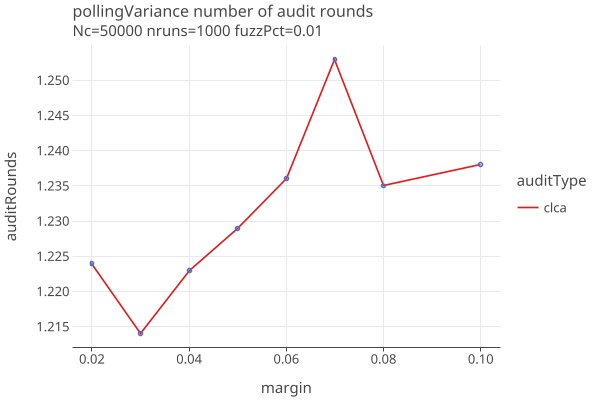
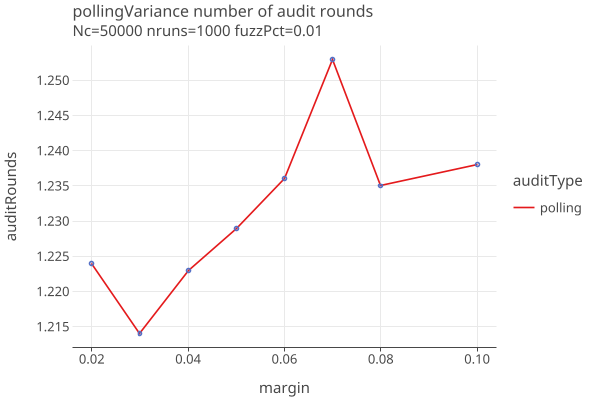
Readme edits

diff --git a/docs/plots/extra/pollingVariance/pollingVarianceLogLinear.html b/docs/plots/extra/pollingVariance/pollingVarianceLogLinear.html
@@ -5,7 +5,7 @@
        &lt;script type=&quot;text/javascript&quot; data-lets-plot-script=&quot;library&quot; src=&quot;https://cdn.jsdelivr.net/gh/JetBrains/lets-plot@v4.5.1/js-package/distr/lets-plot.min.js&quot;>&lt;/script>
    &lt;/head>
    &lt;body>
-          &lt;div id=&quot;SAeMni&quot;>&lt;/div>
+          &lt;div id=&quot;o801SV&quot;>&lt;/div>
    &lt;script type=&quot;text/javascript&quot; data-lets-plot-script=&quot;plot&quot;>
    
    (function() {
@@ -48,10 +48,10 @@
 },
 &quot;stat&quot;:&quot;identity&quot;,
 &quot;data&quot;:{
-&quot;&amp;merged_groups&quot;:[&quot;minusStdev&quot;,&quot;minusStdev&quot;,&quot;minusStdev&quot;,&quot;minusStdev&quot;,&quot;minusStdev&quot;,&quot;minusStdev&quot;,&quot;minusStdev&quot;,&quot;minusStdev&quot;,&quot;needed&quot;,&quot;needed&quot;,&quot;needed&quot;,&quot;needed&quot;,&quot;needed&quot;,&quot;needed&quot;,&quot;needed&quot;,&quot;needed&quot;,&quot;plusStdev&quot;,&quot;plusStdev&quot;,&quot;plusStdev&quot;,&quot;plusStdev&quot;,&quot;plusStdev&quot;,&quot;plusStdev&quot;,&quot;plusStdev&quot;,&quot;plusStdev&quot;],
 &quot;margin&quot;:[0.02,0.03,0.04,0.05,0.06,0.07,0.08,0.1,0.02,0.03,0.04,0.05,0.06,0.07,0.08,0.1,0.02,0.03,0.04,0.05,0.06,0.07,0.08,0.1],
-&quot;samplesNeeded&quot;:[6368.505663611543,2556.9225643460823,1261.785551441922,803.0561047828955,580.6726947705824,374.83007948877275,243.3457677579852,135.91553683968868,13940.008000000016,7300.048999999997,4510.120999999999,2923.8219999999997,2067.637999999995,1542.6049999999989,1144.6039999999998,705.4270000000008,21511.51033638849,12043.175435653913,7758.456448558076,5044.587895217104,3554.6033052294074,2710.379920511225,2045.8622322420144,1274.938463160313],
-&quot;legend&quot;:[&quot;minusStdev&quot;,&quot;minusStdev&quot;,&quot;minusStdev&quot;,&quot;minusStdev&quot;,&quot;minusStdev&quot;,&quot;minusStdev&quot;,&quot;minusStdev&quot;,&quot;minusStdev&quot;,&quot;needed&quot;,&quot;needed&quot;,&quot;needed&quot;,&quot;needed&quot;,&quot;needed&quot;,&quot;needed&quot;,&quot;needed&quot;,&quot;needed&quot;,&quot;plusStdev&quot;,&quot;plusStdev&quot;,&quot;plusStdev&quot;,&quot;plusStdev&quot;,&quot;plusStdev&quot;,&quot;plusStdev&quot;,&quot;plusStdev&quot;,&quot;plusStdev&quot;]
+&quot;&amp;merged_groups&quot;:[&quot;minusStdev&quot;,&quot;minusStdev&quot;,&quot;minusStdev&quot;,&quot;minusStdev&quot;,&quot;minusStdev&quot;,&quot;minusStdev&quot;,&quot;minusStdev&quot;,&quot;minusStdev&quot;,&quot;needed&quot;,&quot;needed&quot;,&quot;needed&quot;,&quot;needed&quot;,&quot;needed&quot;,&quot;needed&quot;,&quot;needed&quot;,&quot;needed&quot;,&quot;plusStdev&quot;,&quot;plusStdev&quot;,&quot;plusStdev&quot;,&quot;plusStdev&quot;,&quot;plusStdev&quot;,&quot;plusStdev&quot;,&quot;plusStdev&quot;,&quot;plusStdev&quot;],
+&quot;legend&quot;:[&quot;minusStdev&quot;,&quot;minusStdev&quot;,&quot;minusStdev&quot;,&quot;minusStdev&quot;,&quot;minusStdev&quot;,&quot;minusStdev&quot;,&quot;minusStdev&quot;,&quot;minusStdev&quot;,&quot;needed&quot;,&quot;needed&quot;,&quot;needed&quot;,&quot;needed&quot;,&quot;needed&quot;,&quot;needed&quot;,&quot;needed&quot;,&quot;needed&quot;,&quot;plusStdev&quot;,&quot;plusStdev&quot;,&quot;plusStdev&quot;,&quot;plusStdev&quot;,&quot;plusStdev&quot;,&quot;plusStdev&quot;,&quot;plusStdev&quot;,&quot;plusStdev&quot;],
+&quot;samplesNeeded&quot;:[6368.505663611543,2556.9225643460823,1261.785551441922,803.0561047828955,580.6726947705824,374.83007948877275,243.3457677579852,135.91553683968868,13940.008000000016,7300.048999999997,4510.120999999999,2923.8219999999997,2067.637999999995,1542.6049999999989,1144.6039999999998,705.4270000000008,21511.51033638849,12043.175435653913,7758.456448558076,5044.587895217104,3554.6033052294074,2710.379920511225,2045.8622322420144,1274.938463160313]
 },
 &quot;sampling&quot;:&quot;none&quot;,
 &quot;inherit_aes&quot;:false,
@@ -114,7 +114,7 @@
 }],
 &quot;spec_id&quot;:&quot;6&quot;
 };
-       var containerDiv = document.getElementById(&quot;SAeMni&quot;);
+       var containerDiv = document.getElementById(&quot;o801SV&quot;);
        
                var toolbar = null;
                var plotContainer = containerDiv;               

diff --git a/docs/plots/extra/pollingVariance/pollingVarianceNmvrsLinear.html b/docs/plots/extra/pollingVariance/pollingVarianceNmvrsLinear.html
@@ -5,7 +5,7 @@
        &lt;script type=&quot;text/javascript&quot; data-lets-plot-script=&quot;library&quot; src=&quot;https://cdn.jsdelivr.net/gh/JetBrains/lets-plot@v4.5.1/js-package/distr/lets-plot.min.js&quot;>&lt;/script>
    &lt;/head>
    &lt;body>
-          &lt;div id=&quot;yOlvy0&quot;>&lt;/div>
+          &lt;div id=&quot;FoLdR7&quot;>&lt;/div>
    &lt;script type=&quot;text/javascript&quot; data-lets-plot-script=&quot;plot&quot;>
    
    (function() {
@@ -47,8 +47,8 @@
 &quot;stat&quot;:&quot;identity&quot;,
 &quot;data&quot;:{
 &quot;number&quot;:[24308.496,13414.546,8131.032,5337.155,3738.574,2779.984,2101.442,1305.72,13940.008000000016,7300.048999999997,4510.120999999999,2923.8219999999997,2067.637999999995,1542.6049999999989,1144.6039999999998,705.4270000000008],
-&quot;&amp;merged_groups&quot;:[&quot;nmvrs&quot;,&quot;nmvrs&quot;,&quot;nmvrs&quot;,&quot;nmvrs&quot;,&quot;nmvrs&quot;,&quot;nmvrs&quot;,&quot;nmvrs&quot;,&quot;nmvrs&quot;,&quot;samplesNeeded&quot;,&quot;samplesNeeded&quot;,&quot;samplesNeeded&quot;,&quot;samplesNeeded&quot;,&quot;samplesNeeded&quot;,&quot;samplesNeeded&quot;,&quot;samplesNeeded&quot;,&quot;samplesNeeded&quot;],
 &quot;margin&quot;:[0.02,0.03,0.04,0.05,0.06,0.07,0.08,0.1,0.02,0.03,0.04,0.05,0.06,0.07,0.08,0.1],
+&quot;&amp;merged_groups&quot;:[&quot;nmvrs&quot;,&quot;nmvrs&quot;,&quot;nmvrs&quot;,&quot;nmvrs&quot;,&quot;nmvrs&quot;,&quot;nmvrs&quot;,&quot;nmvrs&quot;,&quot;nmvrs&quot;,&quot;samplesNeeded&quot;,&quot;samplesNeeded&quot;,&quot;samplesNeeded&quot;,&quot;samplesNeeded&quot;,&quot;samplesNeeded&quot;,&quot;samplesNeeded&quot;,&quot;samplesNeeded&quot;,&quot;samplesNeeded&quot;],
 &quot;legend&quot;:[&quot;nmvrs&quot;,&quot;nmvrs&quot;,&quot;nmvrs&quot;,&quot;nmvrs&quot;,&quot;nmvrs&quot;,&quot;nmvrs&quot;,&quot;nmvrs&quot;,&quot;nmvrs&quot;,&quot;samplesNeeded&quot;,&quot;samplesNeeded&quot;,&quot;samplesNeeded&quot;,&quot;samplesNeeded&quot;,&quot;samplesNeeded&quot;,&quot;samplesNeeded&quot;,&quot;samplesNeeded&quot;,&quot;samplesNeeded&quot;]
 },
 &quot;sampling&quot;:&quot;none&quot;,
@@ -79,8 +79,8 @@
 &quot;stat&quot;:&quot;identity&quot;,
 &quot;data&quot;:{
 &quot;number&quot;:[24308.496,13414.546,8131.032,5337.155,3738.574,2779.984,2101.442,1305.72,13940.008000000016,7300.048999999997,4510.120999999999,2923.8219999999997,2067.637999999995,1542.6049999999989,1144.6039999999998,705.4270000000008],
-&quot;margin&quot;:[0.02,0.03,0.04,0.05,0.06,0.07,0.08,0.1,0.02,0.03,0.04,0.05,0.06,0.07,0.08,0.1],
 &quot;&amp;merged_groups&quot;:[&quot;nmvrs&quot;,&quot;nmvrs&quot;,&quot;nmvrs&quot;,&quot;nmvrs&quot;,&quot;nmvrs&quot;,&quot;nmvrs&quot;,&quot;nmvrs&quot;,&quot;nmvrs&quot;,&quot;samplesNeeded&quot;,&quot;samplesNeeded&quot;,&quot;samplesNeeded&quot;,&quot;samplesNeeded&quot;,&quot;samplesNeeded&quot;,&quot;samplesNeeded&quot;,&quot;samplesNeeded&quot;,&quot;samplesNeeded&quot;],
+&quot;margin&quot;:[0.02,0.03,0.04,0.05,0.06,0.07,0.08,0.1,0.02,0.03,0.04,0.05,0.06,0.07,0.08,0.1],
 &quot;legend&quot;:[&quot;nmvrs&quot;,&quot;nmvrs&quot;,&quot;nmvrs&quot;,&quot;nmvrs&quot;,&quot;nmvrs&quot;,&quot;nmvrs&quot;,&quot;nmvrs&quot;,&quot;nmvrs&quot;,&quot;samplesNeeded&quot;,&quot;samplesNeeded&quot;,&quot;samplesNeeded&quot;,&quot;samplesNeeded&quot;,&quot;samplesNeeded&quot;,&quot;samplesNeeded&quot;,&quot;samplesNeeded&quot;,&quot;samplesNeeded&quot;]
 },
 &quot;size&quot;:1.0,
@@ -112,7 +112,7 @@
 }],
 &quot;spec_id&quot;:&quot;12&quot;
 };
-       var containerDiv = document.getElementById(&quot;yOlvy0&quot;);
+       var containerDiv = document.getElementById(&quot;FoLdR7&quot;);
        
                var toolbar = null;
                var plotContainer = containerDiv;               

diff --git a/docs/plots/extra/pollingVariance/pollingVarianceLinear.html b/docs/plots/extra/pollingVariance/pollingVarianceLinear.html
@@ -5,7 +5,7 @@
        &lt;script type=&quot;text/javascript&quot; data-lets-plot-script=&quot;library&quot; src=&quot;https://cdn.jsdelivr.net/gh/JetBrains/lets-plot@v4.5.1/js-package/distr/lets-plot.min.js&quot;>&lt;/script>
    &lt;/head>
    &lt;body>
-          &lt;div id=&quot;MdbiNU&quot;>&lt;/div>
+          &lt;div id=&quot;jJNl74&quot;>&lt;/div>
    &lt;script type=&quot;text/javascript&quot; data-lets-plot-script=&quot;plot&quot;>
    
    (function() {
@@ -48,8 +48,8 @@
 &quot;data&quot;:{
 &quot;margin&quot;:[0.02,0.03,0.04,0.05,0.06,0.07,0.08,0.1,0.02,0.03,0.04,0.05,0.06,0.07,0.08,0.1,0.02,0.03,0.04,0.05,0.06,0.07,0.08,0.1],
 &quot;&amp;merged_groups&quot;:[&quot;minusStdev&quot;,&quot;minusStdev&quot;,&quot;minusStdev&quot;,&quot;minusStdev&quot;,&quot;minusStdev&quot;,&quot;minusStdev&quot;,&quot;minusStdev&quot;,&quot;minusStdev&quot;,&quot;needed&quot;,&quot;needed&quot;,&quot;needed&quot;,&quot;needed&quot;,&quot;needed&quot;,&quot;needed&quot;,&quot;needed&quot;,&quot;needed&quot;,&quot;plusStdev&quot;,&quot;plusStdev&quot;,&quot;plusStdev&quot;,&quot;plusStdev&quot;,&quot;plusStdev&quot;,&quot;plusStdev&quot;,&quot;plusStdev&quot;,&quot;plusStdev&quot;],
-&quot;samplesNeeded&quot;:[6368.505663611543,2556.9225643460823,1261.785551441922,803.0561047828955,580.6726947705824,374.83007948877275,243.3457677579852,135.91553683968868,13940.008000000016,7300.048999999997,4510.120999999999,2923.8219999999997,2067.637999999995,1542.6049999999989,1144.6039999999998,705.4270000000008,21511.51033638849,12043.175435653913,7758.456448558076,5044.587895217104,3554.6033052294074,2710.379920511225,2045.8622322420144,1274.938463160313],
-&quot;legend&quot;:[&quot;minusStdev&quot;,&quot;minusStdev&quot;,&quot;minusStdev&quot;,&quot;minusStdev&quot;,&quot;minusStdev&quot;,&quot;minusStdev&quot;,&quot;minusStdev&quot;,&quot;minusStdev&quot;,&quot;needed&quot;,&quot;needed&quot;,&quot;needed&quot;,&quot;needed&quot;,&quot;needed&quot;,&quot;needed&quot;,&quot;needed&quot;,&quot;needed&quot;,&quot;plusStdev&quot;,&quot;plusStdev&quot;,&quot;plusStdev&quot;,&quot;plusStdev&quot;,&quot;plusStdev&quot;,&quot;plusStdev&quot;,&quot;plusStdev&quot;,&quot;plusStdev&quot;]
+&quot;legend&quot;:[&quot;minusStdev&quot;,&quot;minusStdev&quot;,&quot;minusStdev&quot;,&quot;minusStdev&quot;,&quot;minusStdev&quot;,&quot;minusStdev&quot;,&quot;minusStdev&quot;,&quot;minusStdev&quot;,&quot;needed&quot;,&quot;needed&quot;,&quot;needed&quot;,&quot;needed&quot;,&quot;needed&quot;,&quot;needed&quot;,&quot;needed&quot;,&quot;needed&quot;,&quot;plusStdev&quot;,&quot;plusStdev&quot;,&quot;plusStdev&quot;,&quot;plusStdev&quot;,&quot;plusStdev&quot;,&quot;plusStdev&quot;,&quot;plusStdev&quot;,&quot;plusStdev&quot;],
+&quot;samplesNeeded&quot;:[6368.505663611543,2556.9225643460823,1261.785551441922,803.0561047828955,580.6726947705824,374.83007948877275,243.3457677579852,135.91553683968868,13940.008000000016,7300.048999999997,4510.120999999999,2923.8219999999997,2067.637999999995,1542.6049999999989,1144.6039999999998,705.4270000000008,21511.51033638849,12043.175435653913,7758.456448558076,5044.587895217104,3554.6033052294074,2710.379920511225,2045.8622322420144,1274.938463160313]
 },
 &quot;sampling&quot;:&quot;none&quot;,
 &quot;inherit_aes&quot;:false,
@@ -112,7 +112,7 @@
 }],
 &quot;spec_id&quot;:&quot;3&quot;
 };
-       var containerDiv = document.getElementById(&quot;MdbiNU&quot;);
+       var containerDiv = document.getElementById(&quot;jJNl74&quot;);
        
                var toolbar = null;
                var plotContainer = containerDiv;               

diff --git a/docs/plots/extra/pollingVariance/pollingVarianceNrounds.html b/docs/plots/extra/pollingVariance/pollingVarianceNrounds.html
@@ -5,7 +5,7 @@
        &lt;script type=&quot;text/javascript&quot; data-lets-plot-script=&quot;library&quot; src=&quot;https://cdn.jsdelivr.net/gh/JetBrains/lets-plot@v4.5.1/js-package/distr/lets-plot.min.js&quot;>&lt;/script>
    &lt;/head>
    &lt;body>
-          &lt;div id=&quot;PHRwff&quot;>&lt;/div>
+          &lt;div id=&quot;jKtAfU&quot;>&lt;/div>
    &lt;script type=&quot;text/javascript&quot; data-lets-plot-script=&quot;plot&quot;>
    
    (function() {
@@ -46,10 +46,10 @@
 },
 &quot;stat&quot;:&quot;identity&quot;,
 &quot;data&quot;:{
-&quot;&amp;merged_groups&quot;:[&quot;clca&quot;,&quot;clca&quot;,&quot;clca&quot;,&quot;clca&quot;,&quot;clca&quot;,&quot;clca&quot;,&quot;clca&quot;,&quot;clca&quot;],
 &quot;auditRounds&quot;:[1.224,1.214,1.223,1.229,1.236,1.253,1.235,1.238],
 &quot;margin&quot;:[0.02,0.03,0.04,0.05,0.06,0.07,0.08,0.1],
-&quot;auditType&quot;:[&quot;clca&quot;,&quot;clca&quot;,&quot;clca&quot;,&quot;clca&quot;,&quot;clca&quot;,&quot;clca&quot;,&quot;clca&quot;,&quot;clca&quot;]
+&quot;&amp;merged_groups&quot;:[&quot;polling&quot;,&quot;polling&quot;,&quot;polling&quot;,&quot;polling&quot;,&quot;polling&quot;,&quot;polling&quot;,&quot;polling&quot;,&quot;polling&quot;],
+&quot;auditType&quot;:[&quot;polling&quot;,&quot;polling&quot;,&quot;polling&quot;,&quot;polling&quot;,&quot;polling&quot;,&quot;polling&quot;,&quot;polling&quot;,&quot;polling&quot;]
 },
 &quot;sampling&quot;:&quot;none&quot;,
 &quot;inherit_aes&quot;:false,
@@ -78,10 +78,10 @@
 },
 &quot;stat&quot;:&quot;identity&quot;,
 &quot;data&quot;:{
-&quot;auditRounds&quot;:[1.224,1.214,1.223,1.229,1.236,1.253,1.235,1.238],
+&quot;&amp;merged_groups&quot;:[&quot;polling&quot;,&quot;polling&quot;,&quot;polling&quot;,&quot;polling&quot;,&quot;polling&quot;,&quot;polling&quot;,&quot;polling&quot;,&quot;polling&quot;],
 &quot;margin&quot;:[0.02,0.03,0.04,0.05,0.06,0.07,0.08,0.1],
-&quot;&amp;merged_groups&quot;:[&quot;clca&quot;,&quot;clca&quot;,&quot;clca&quot;,&quot;clca&quot;,&quot;clca&quot;,&quot;clca&quot;,&quot;clca&quot;,&quot;clca&quot;],
-&quot;auditType&quot;:[&quot;clca&quot;,&quot;clca&quot;,&quot;clca&quot;,&quot;clca&quot;,&quot;clca&quot;,&quot;clca&quot;,&quot;clca&quot;,&quot;clca&quot;]
+&quot;auditRounds&quot;:[1.224,1.214,1.223,1.229,1.236,1.253,1.235,1.238],
+&quot;auditType&quot;:[&quot;polling&quot;,&quot;polling&quot;,&quot;polling&quot;,&quot;polling&quot;,&quot;polling&quot;,&quot;polling&quot;,&quot;polling&quot;,&quot;polling&quot;]
 },
 &quot;size&quot;:1.0,
 &quot;shape&quot;:1.0,
@@ -112,7 +112,7 @@
 }],
 &quot;spec_id&quot;:&quot;9&quot;
 };
-       var containerDiv = document.getElementById(&quot;PHRwff&quot;);
+       var containerDiv = document.getElementById(&quot;jKtAfU&quot;);
        
                var toolbar = null;
                var plotContainer = containerDiv;               

diff --git a/docs/plots/extra/pollingVariance/pollingVarianceNmvrsLogLinear.html b/docs/plots/extra/pollingVariance/pollingVarianceNmvrsLogLinear.html
@@ -5,7 +5,7 @@
        &lt;script type=&quot;text/javascript&quot; data-lets-plot-script=&quot;library&quot; src=&quot;https://cdn.jsdelivr.net/gh/JetBrains/lets-plot@v4.5.1/js-package/distr/lets-plot.min.js&quot;>&lt;/script>
    &lt;/head>
    &lt;body>
-          &lt;div id=&quot;Vc4QKx&quot;>&lt;/div>
+          &lt;div id=&quot;2Au5v5&quot;>&lt;/div>
    &lt;script type=&quot;text/javascript&quot; data-lets-plot-script=&quot;plot&quot;>
    
    (function() {
@@ -114,7 +114,7 @@
 }],
 &quot;spec_id&quot;:&quot;15&quot;
 };
-       var containerDiv = document.getElementById(&quot;Vc4QKx&quot;);
+       var containerDiv = document.getElementById(&quot;2Au5v5&quot;);
        
                var toolbar = null;
                var plotContainer = containerDiv;               

diff --git a/plots/src/test/kotlin/org/cryptobiotic/rlauxe/workflow/CompareAuditVariance.kt b/plots/src/test/kotlin/org/cryptobiotic/rlauxe/workflow/CompareAuditVariance.kt
@@ -46,7 +46,7 @@ class CompareAuditVariance {
         val subtitle = "Nc=${N} nruns=${nruns} fuzzPct=$fuzzPct"
         showSampleVarianceVsMargin(dirName, name, subtitle, ScaleType.Linear)
         showSampleVarianceVsMargin(dirName, name, subtitle, ScaleType.LogLinear)
-        showNroundsVsMargin(dirName, name, subtitle, catName = "auditType", catfld = {"clca"} )
+        showNroundsVsMargin(dirName, name, subtitle, catName = "auditType", catfld = {"polling"} )
         showNmvrsVsMargin(dirName, name, subtitle, ScaleType.Linear )
         showNmvrsVsMargin(dirName, name, subtitle, ScaleType.LogLinear )
     }

diff --git a/README.md b/README.md
@@ -26,7 +26,6 @@ You can also read this document on [github.io](https://johnlcaron.github.io/rlau
 * [Measuring Samples Needed](#measuring-samples-needed)
   * [Samples needed with no errors](#samples-needed-with-no-errors)
   * [Samples needed when there are errors](#samples-needed-when-there-are-errors)
-  * [Variance of Samples needed when there are errors](#variance-of-samples-needed-when-there-are-errors)
   * [Effect of Phantoms on Samples needed](#effect-of-phantoms-on-samples-needed)
 * [Estimating Sample Batch sizes](#estimating-sample-batch-sizes)
   * [Estimation](#estimation)
@@ -328,19 +327,11 @@ Varying the percent of undervotes at margin of 4% and 2%, with errors generated 
 
 * Note that undervote percentages are shown up to 50%, with modest effect.
 
-## Variance of Samples needed when there are errors
-
-Using the same method of fuzzing the CVRs and the MVRs, and feeping fuzzPct = .02, we want to get a sense of how much 
-variance there is at different margins.
-
-<a href="https://johnlcaron.github.io/rlauxe/docs/plots/samples/auditVariance/auditVarianceLogLinear.html" rel="auditVarianceLogLinear">![auditVarianceLogLinear](docs/plots/samples/auditVariance/auditVarianceLogLinear.png)</a>
-
-
 ## Effect of Phantoms on Samples needed
 
 Varying phantom percent, up to and over the margin of 4.5%, with errors generated with 1% fuzz:
 
-<a href="https://johnlcaron.github.io/rlauxe/docs/plots/samples/auditsWithPhantoms/auditsWithPhantomsLogLinear.html" rel="sampleSizesLogLinear">![sampleSizesLogLinear](docs/plots/samples/auditsWithPhantoms/auditsWithPhantomsLogLinear.png)</a>
+<a href="https://johnlcaron.github.io/rlauxe/docs/plots/samples/auditsWithPhantoms/auditsWithPhantomsLogLinear.html" rel="auditsWithPhantomsLogLinear">![auditsWithPhantomsLogLinear](docs/plots/samples/auditsWithPhantoms/auditsWithPhantomsLogLinear.png)</a>
 
 * Increased phantoms have a strong effect on sample size.
 * All audits go to hand count when phantomPct gets close to the margin, as they should.
@@ -350,8 +341,8 @@ as a function of phantomPct, and also with no phantoms but the margin shifted by
 
 <a href="https://johnlcaron.github.io/rlauxe/docs/plots/samples/phantomMarginShift/phantomMarginShiftLogLinear.html" rel="phantomMarginShiftLog">![phantomMarginShiftLog](docs/plots/samples/phantomMarginShift/phantomMarginShiftLogLinear.png)</a>
 
-* Generally, in further simulations we will ignore the effect of phantoms for simplicity, with the rule of thumb that
-  their effect is approximately as if the margins are reduced by phantomPct across the board.
+* A rule of thumb is that the effect of phantoms is approximately as if the margins are reduced by phantomPct across the board.
+  TODO: investigate a more precise characterizarion of their effect.
 
 # Estimating Sample Batch sizes
 
@@ -359,8 +350,9 @@ Sampling refers to choosing which ballots to hand review to create Manual Voting
 are created, the actual audit takes place.
 
 Audits are done in rounds. The auditors must decide how many cards/ballots they are willing to audit, since at some point its
-more efficient to do a full handcount than the more elaborate process of tracking down a subset that has been selected for the sample.
-We want to minimize both the overall number of ballots sampled, and the number of rounds.
+more efficient for them to do a full handcount than the more elaborate process of tracking down a subset that has been 
+selected for the sample.
+Theres a tradeoff between the overall number of ballots sampled and the number of rounds, but, we would like to minimize both.
 
 Note that in this section we are plotting _nmvrs_ = overall number of ballots sampled, which includes the inaccuracies of the
 estimation. Above we have been plotting _samples needed_, as if we were doing "one ballot at a time" auditing.
@@ -377,8 +369,8 @@ For each contest assertion we run _auditConfig.nsimEst_ (default 100) simulation
 needed to satisfy the risk limit. We then choose the (_auditConfig.quantile_) sample size as our estimate for that assertion,
 and the contest's estimated sample size is the maximum of the contest's assertion estimates.
 
-If the simulation is accurate, the audit should succeed _auditConfig.quantile_ fraction of the time. Since we dont know the 
-actual error rates, or the order that the errors will be sampled, the simulation results are just estimates.
+If the simulation is accurate, the audit should succeed _auditConfig.quantile_ fraction of the time (default 80%). 
+Since we dont know the actual error rates, or the order that the errors will be sampled, these simulation results are just estimates.
 
 ## Choosing which ballots/cards to sample
 
@@ -476,14 +468,18 @@ When the estimated error rates are half the actual error rates:
 
 <a href="https://johnlcaron.github.io/rlauxe/docs/plots/dist/estSamplesNeeded/estErrorRatesHalf.html" rel="estErrorRatesHalf">![estErrorRatesHalf](./docs/plots/dist/estSamplesNeeded/estErrorRatesHalf.png)</a>
 
-The amount of extra sampling closely follows the number of samples needed, adding around 30-75% extra work, as the following plots vs margin show:
+The amount of extra sampling closely follows the number of samples needed, adding around 30-70% extra work, as the 
+following plots vs margin show:
 
 <a href="https://johnlcaron.github.io/rlauxe/docs/plots/extra/extraVsMarginByFuzzDiff/extraVsMarginByFuzzDiffLogLinear.html" rel="extraVsMarginByFuzzDiffLogLinear">![extraVsMarginByFuzzDiffLogLinear](./docs/plots/extra/extraVsMarginByFuzzDiff/extraVsMarginByFuzzDiffLogLinear.png)</a>
 <a href="https://johnlcaron.github.io/rlauxe/docs/plots/extra/extraVsMarginByFuzzDiff/extraVsMarginByFuzzDiffPct.html" rel="extraVsMarginByFuzzDiffPct">![extraVsMarginByFuzzDiffPct](./docs/plots/extra/extraVsMarginByFuzzDiff/extraVsMarginByFuzzDiffPct.png)</a>
 
+The extra samples goes up as our guesses for the error rates go up. In these plots we use the fuzzPct as a proxy for what
+the error rates might be.
+
 In the best case, the simulation accurately estimates the distribution of audit sample sizes. But because there is so much variance in that
-distribution, the audit sample sizes are significantly overestimated. To emphasize this point, here are plots of samples needed and nmrvs, for both clca and polling, 
-when there is a constant mvr fuzz of .01 and the estimation also use .01 fuzz:
+distribution, the audit sample sizes are significantly overestimated. To emphasize this point, here are plots of samples needed and nmrvs, 
+one for CLCA and one for polling (actual and estimated fuzz of 1%:
 
 <a href="https://johnlcaron.github.io/rlauxe/docs/plots/extra/clcaVariance/clcaVarianceLogLinear.html" rel="clcaVarianceLogLinear">![clcaVarianceLogLinear](./docs/plots/extra/clcaVariance/clcaVarianceLogLinear.png)</a>
 <a href="https://johnlcaron.github.io/rlauxe/docs/plots/extra/pollingVariance/pollingVarianceLogLinear.html" rel="pollingVarianceLogLinear">![pollingVarianceLogLinear](./docs/plots/extra/pollingVariance/pollingVarianceLogLinear.png)</a>
